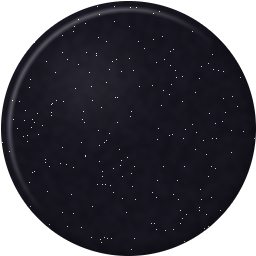
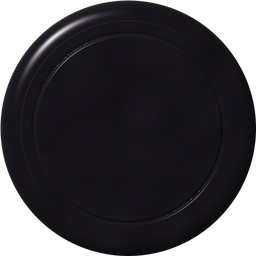
暗棋造型重做：畫作嵌在黑漆金線框裡、象牙描金刻字、翡翠玉、霓虹夜光
Claude-Session: https://claude.ai/code/session_0191n82caBybZ4H45DzdApzQ

diff --git a/game/index.html b/game/index.html
@@ -345,7 +345,7 @@ body.art-on #stars{opacity:0;transition:opacity .4s}
 .dc-lvl button{padding:4px 9px!important;font-size:12px!important}
 
 /* 棋子造型 */
-body[data-skin=art] .dc-back,body[data-skin=art] .dc-face{box-shadow:0 1px 0 #e9dfc8,0 2px 0 #e2d6bb,0 3px 0 #d8caa9,0 4px 0 #cbbb96,0 5px 0 #bba984,0 6px 0 #a99572,0 7px 0 #8f7b5a,0 10px 12px #120802aa!important}
+body[data-skin=art] .dc-back{box-shadow:0 1px 0 #2a2630,0 2px 0 #242029,0 3px 0 #1e1a22,0 4px 0 #19161c,0 5px 0 #141116,0 6px 0 #0f0d10,0 7px 0 #0a090b,0 10px 12px #000c!important}body[data-skin=art] .dc-face{box-shadow:0 1px 0 #e9dfc8,0 2px 0 #e2d6bb,0 3px 0 #d8caa9,0 4px 0 #cbbb96,0 5px 0 #bba984,0 6px 0 #a99572,0 7px 0 #8f7b5a,0 10px 12px #120802aa!important}
 body[data-skin=art] .dc-ed{background:radial-gradient(circle,#e8dcc2 0 60%,#bba984 80%,#8f7b5a)!important}
 body[data-skin=neon] .dc-back,body[data-skin=neon] .dc-face{box-shadow:0 1px 0 #2a2633,0 2px 0 #24202c,0 3px 0 #1e1a25,0 4px 0 #19161f,0 5px 0 #141118,0 6px 0 #0f0d12,0 7px 0 #0a090c,0 0 14px #5effb355,0 10px 12px #000c!important}
 body[data-skin=neon] .dc-ed{background:#15121a!important}
@@ -362,6 +362,14 @@ body[data-skin=jade] .dc-face.dc-red{color:#7a0f12}body[data-skin=jade] .dc-face
 .sk.on{border-color:#edcd75;box-shadow:0 0 16px #edcd7533}.sk img{width:62px;height:62px;filter:drop-shadow(0 5px 6px #000a)}
 .sk b{font-size:14px;font-weight:600;color:#edcd75}.sk i{font-style:normal;font-size:11px;line-height:1.4;color:#f4f0e7aa;text-align:center}
 .sk.lock img{filter:grayscale(1) brightness(.5)}.sk.lock b{color:#f4f0e788}
+
+/* 精緻刻字：紅＝朱砂描金，黑＝墨描金（玉、象牙用） */
+body[data-skin=jade] .dc-face::before,body[data-skin=art] .dc-face::before{opacity:0!important}
+body[data-skin=jade] .dc-face span,body[data-skin=art] .dc-face span{mix-blend-mode:normal!important;-webkit-text-stroke:.8px #e9c46a;text-shadow:0 1px 1px #0006,0 -1px 0 #fff4!important}
+body[data-skin=jade] .dc-face.dc-red,body[data-skin=art] .dc-face.dc-red{color:#d81f1f}
+body[data-skin=jade] .dc-face.dc-blk,body[data-skin=art] .dc-face.dc-blk{color:#101010}
+body[data-skin=jade] .dc-face.dc-red span{color:#e8231e;text-shadow:0 0 1px #fff8,0 1px 2px #000a!important}
+body[data-skin=jade] .dc-face.dc-blk span{color:#0a0a0a;-webkit-text-stroke:.9px #f0d27a}
 </style>
 <link rel="stylesheet" href="https://fonts.googleapis.com/css2?family=Noto+Serif+TC:wght@900&display=swap&text=%E5%B8%A5%E4%BB%95%E7%9B%B8%E4%BF%A5%E5%82%8C%E7%82%AE%E5%85%B5%E5%B0%87%E5%A3%AB%E8%B1%A1%E8%BB%8A%E9%A6%AC%E5%8C%85%E5%8D%92">
 </head>
